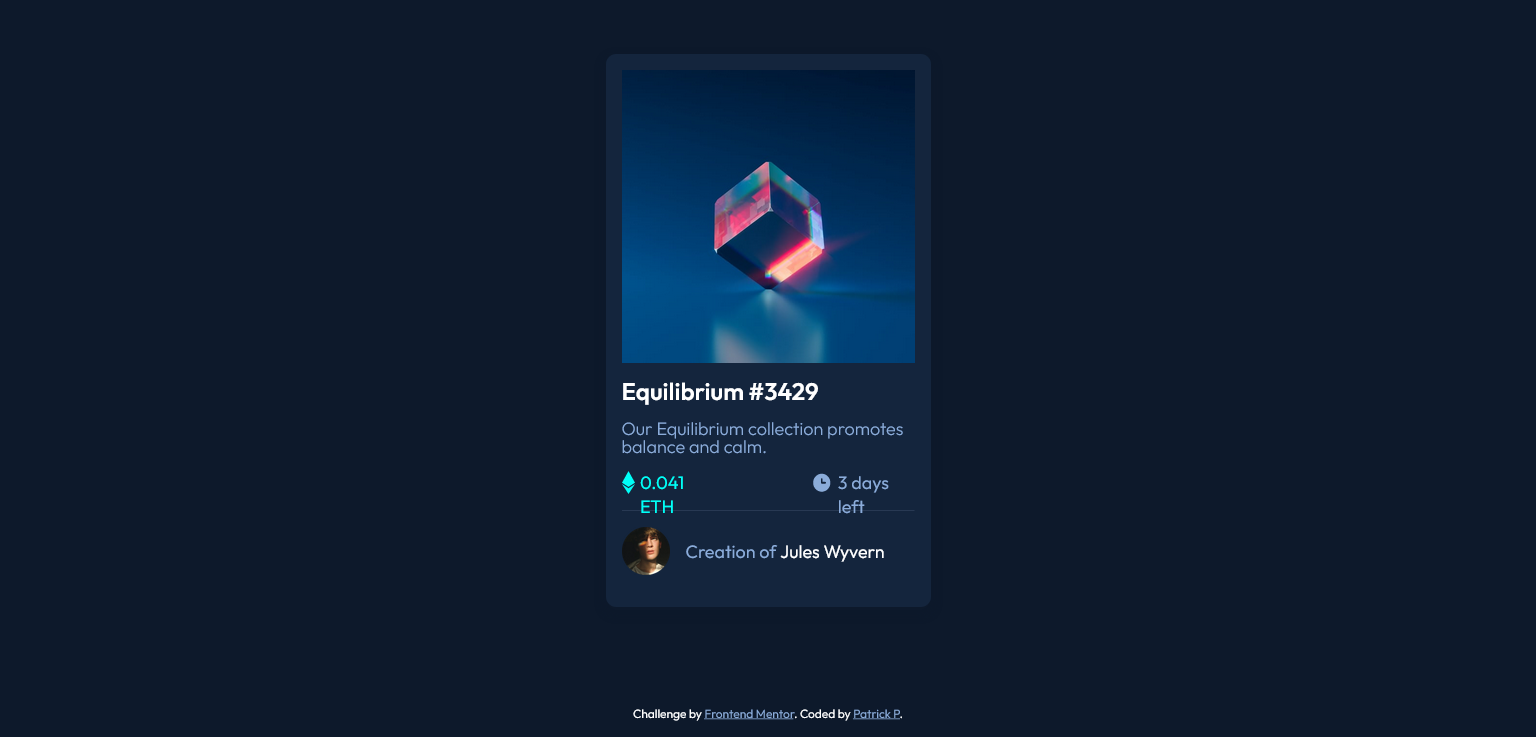
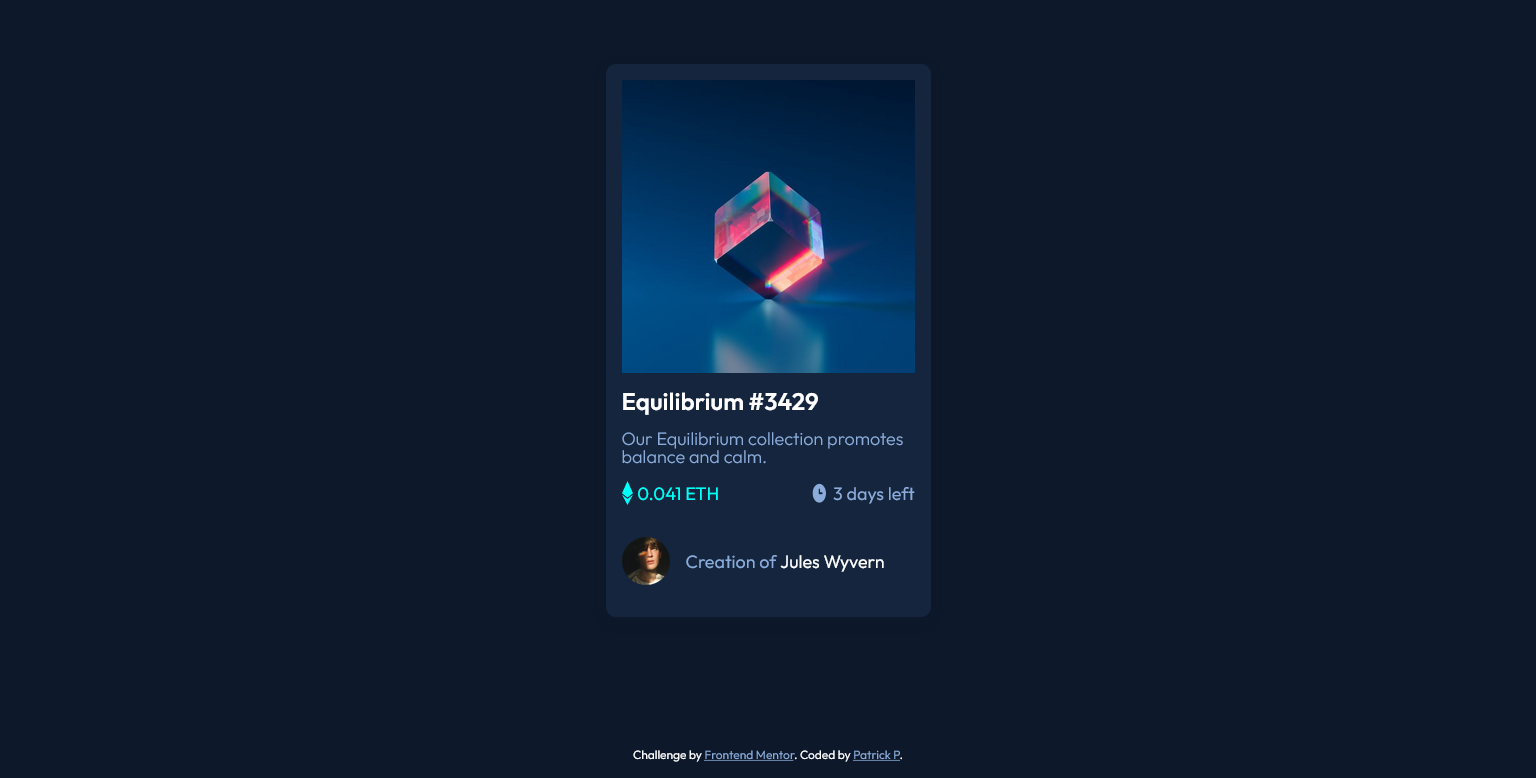
fixed error when using firefox

Changed region(s): [[0.4062, 0.4369, 0.5938, 0.7802], [0.4688, 0.2809, 0.5625, 0.4057], [0.4062, 0.9674, 0.5938, 0.9986]]

diff --git a/style.css b/style.css
@@ -111,6 +111,8 @@ body {
   color: var(--clr-primary-500);
   font-weight: var(--fw-400);
   margin-left: 0.3rem;
+  /* flex-shrink: 0; */
+  min-width: fit-content;
 }
 
 .time-container {
@@ -120,6 +122,7 @@ body {
   color: var(--clr-primary-300);
   font-weight: var(--fw-400);
   margin-left: 0.3rem;
+  min-width: fit-content;
 }
 
 .credit {

diff --git a/README.md b/README.md
@@ -45,6 +45,7 @@ Create a NFT card component
 
 - Learned how to use z-index and create stacking contexts
 - How to use hover and select the sibling or child of the hovered element
+- Flex-shrink acts differently on firefox and chrome. Firefox requires a flex-shrink of 0 or a width of fit-content
 
 
 ## Author
